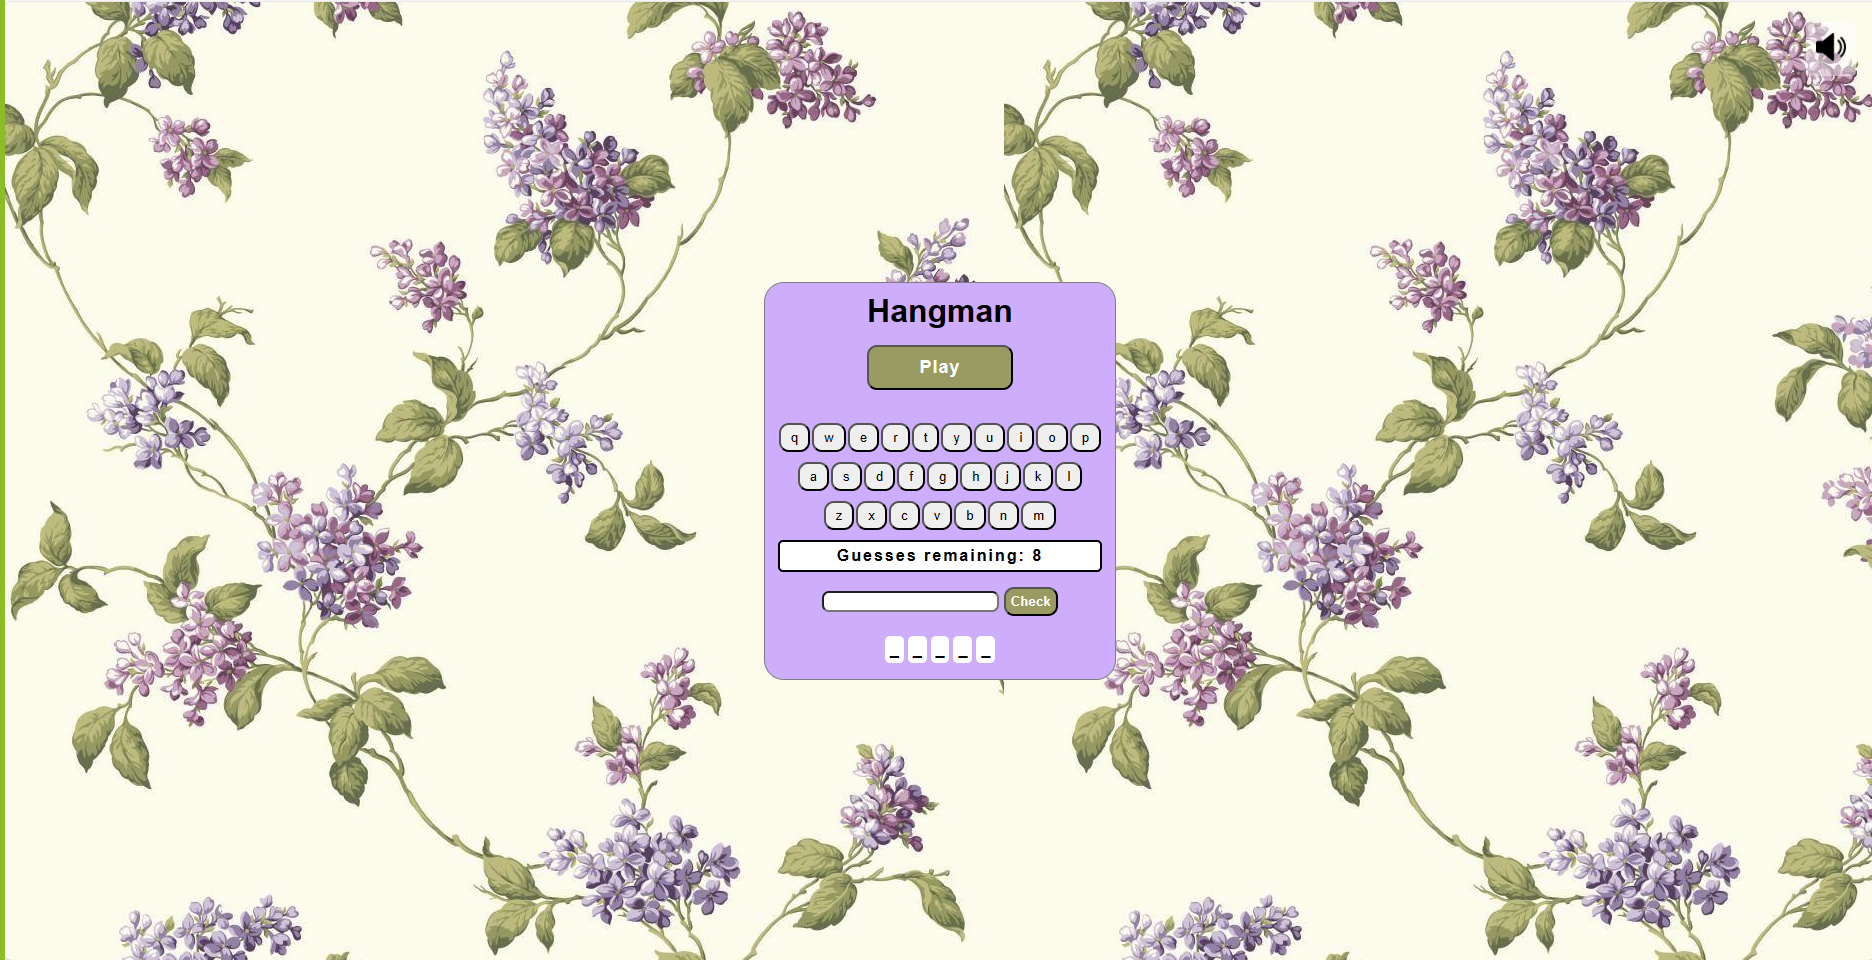
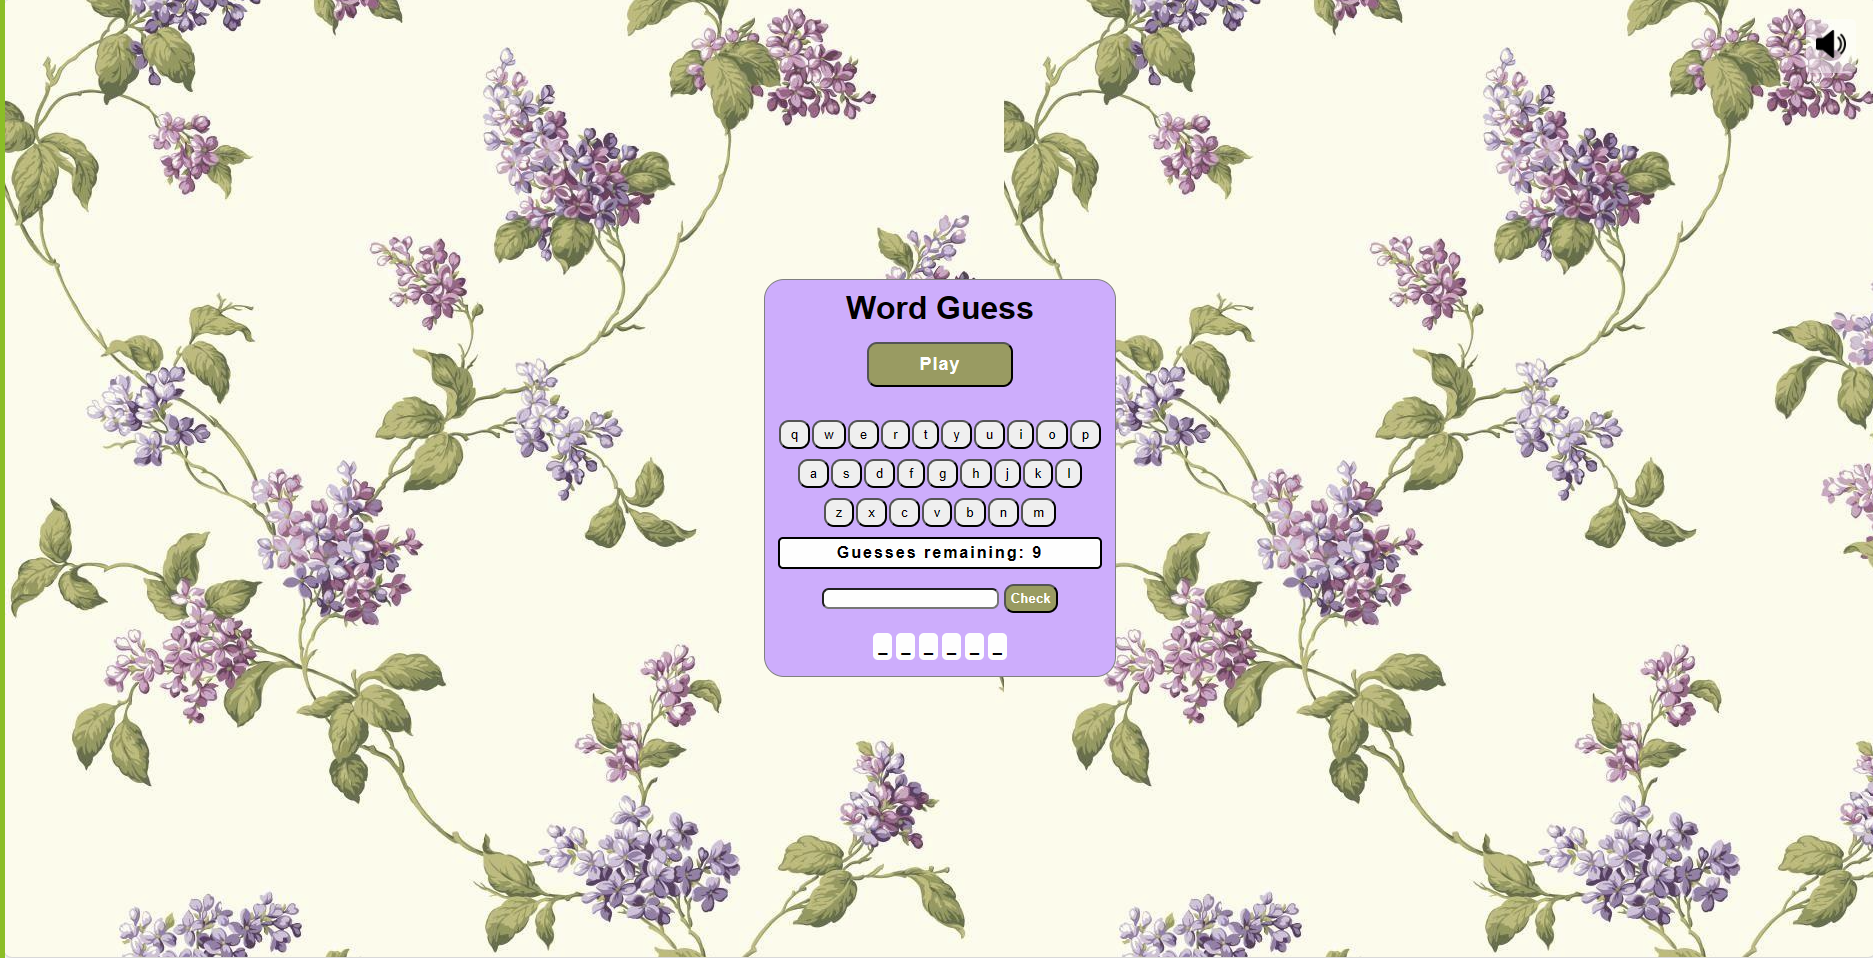
updated readme

diff --git a/index.html b/index.html
@@ -4,7 +4,7 @@
     <meta charset="UTF-8">
     <meta http-equiv="X-UA-Compatible" content="IE=edge">
     <meta name="viewport" content="width=device-width, initial-scale=1.0">
-    <title>Hangman</title>
+    <title>Word Guess</title>
 <link rel="stylesheet" href="style.css">
 </head>
 <body>
@@ -18,7 +18,7 @@
     <img id="btn-sound-off" src="Images/volume-mute.png">
   </btn>
     <div id='mainContainer'>
-        <h1>Hangman</h1>
+        <h1>Word Guess</h1>
         <button id='play'>Play</button>
         <br>
         <div id='afterplay'>
